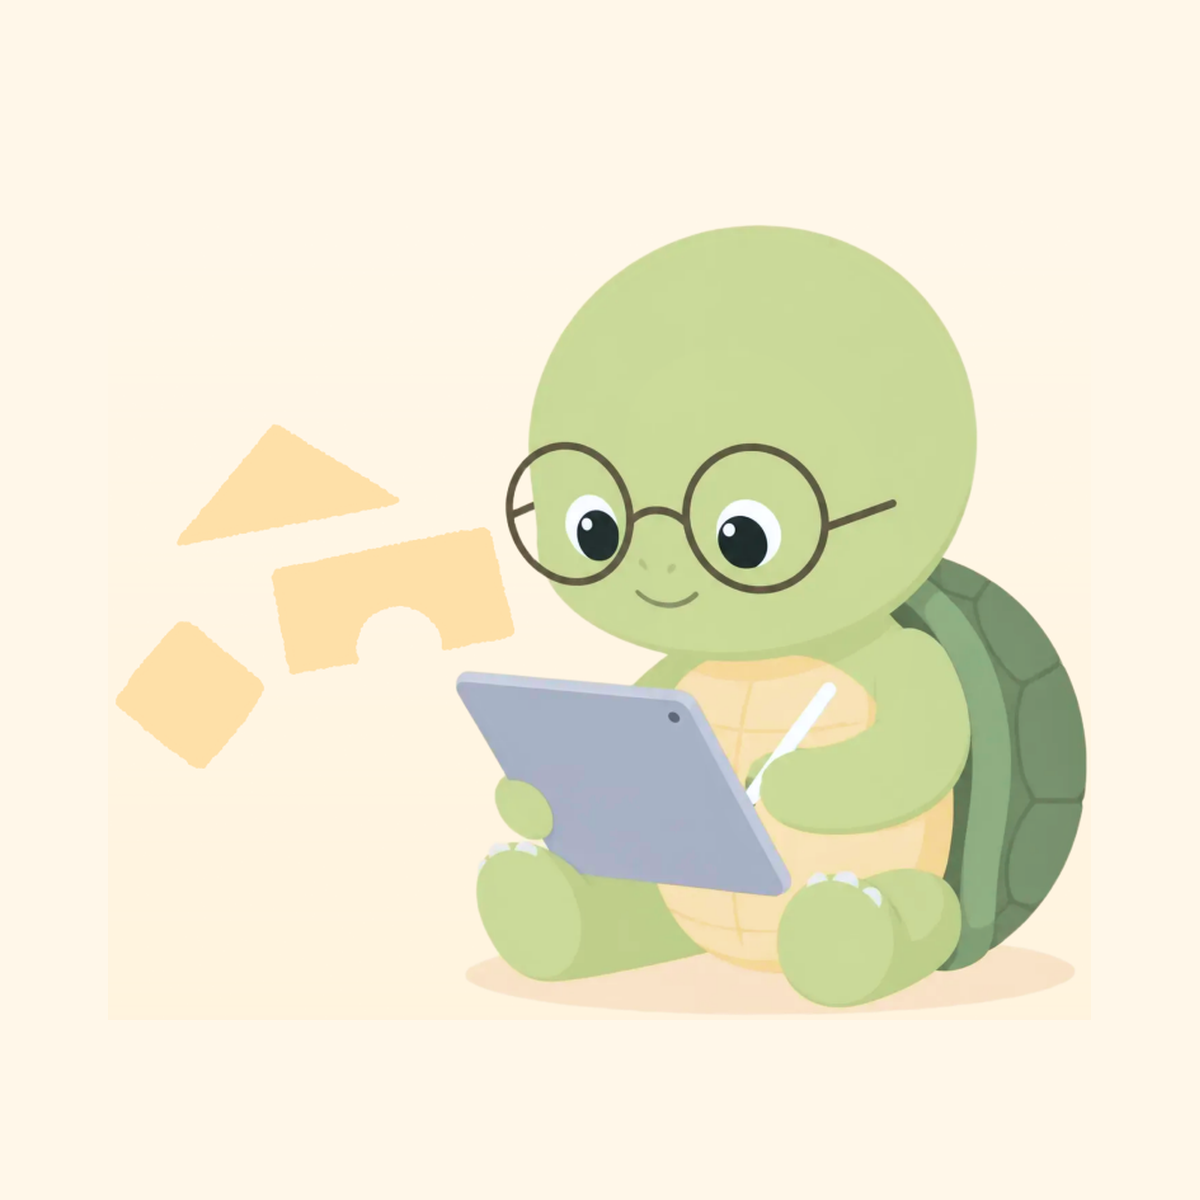
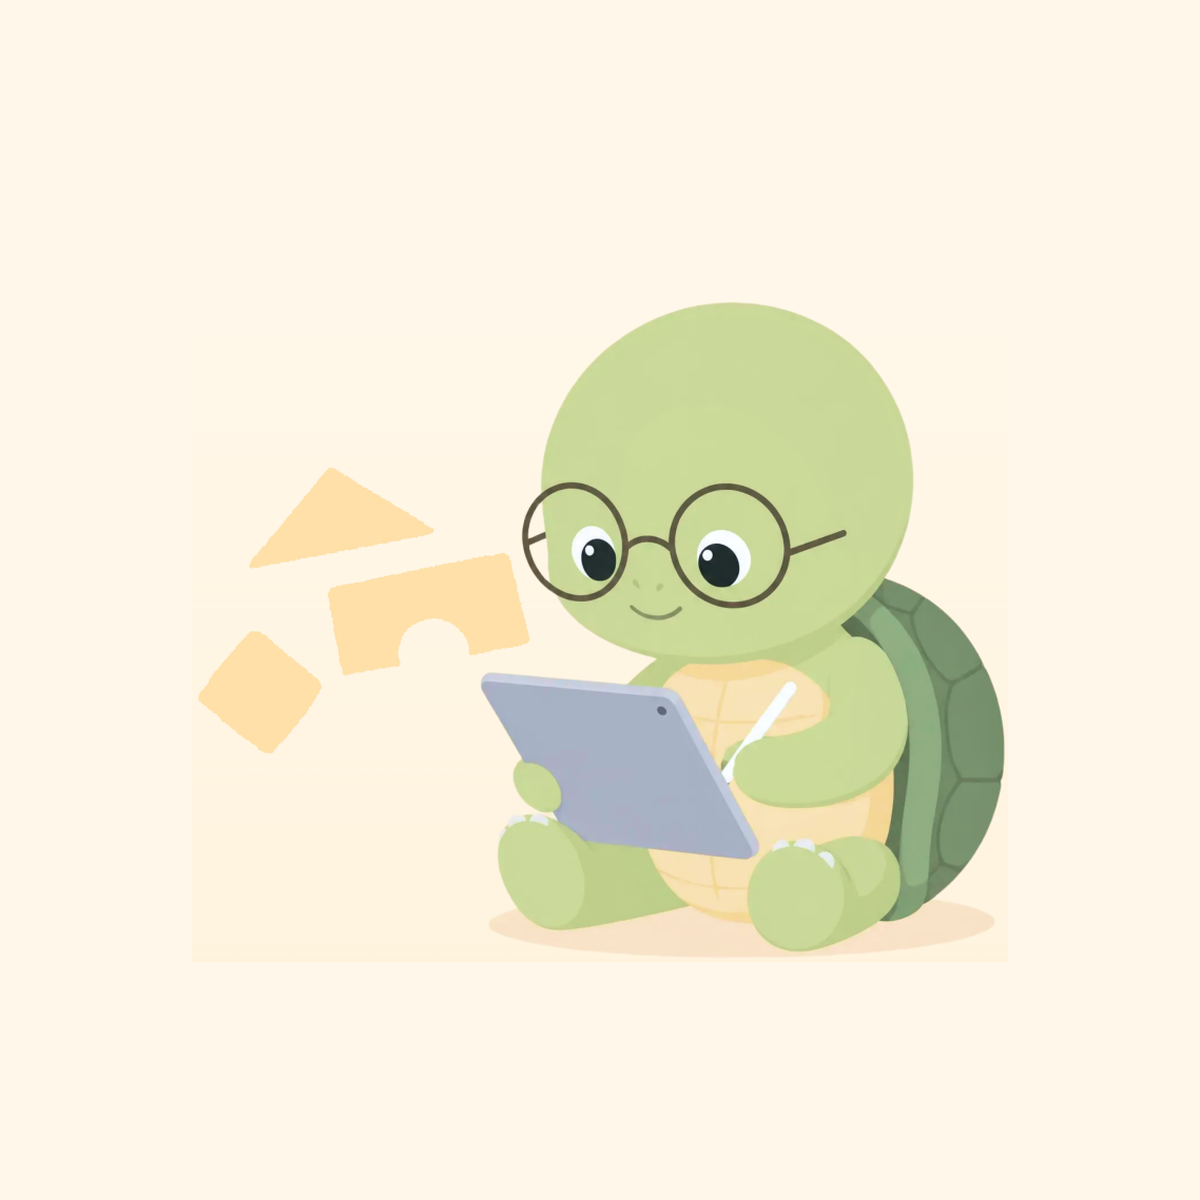
og:image 마스코트 크기 82% → 68% 로 축소 (여백 더 넉넉, 캐릭터 답답함 완화) · ?v= c 로 재크롤 유도

Changed region(s): [[0.0925, 0.185, 0.925, 0.8633]]

diff --git a/app/layout.tsx b/app/layout.tsx
@@ -46,7 +46,7 @@ export const metadata: Metadata = {
     type: "website",
     images: [
       {
-        url: "https://slowkids.net/og-image-mascot.png?v=20260901b",
+        url: "https://slowkids.net/og-image-mascot.png?v=20260901c",
         width: 1200,
         height: 1200,
         alt: "느린아이 시리즈 마스코트 — 태블릿을 들고 있는 거북이 캐릭터",
@@ -58,7 +58,7 @@ export const metadata: Metadata = {
     title: "느린아이 - 한 걸음씩, 아이의 속도로",
     description:
       "발달지연·발달장애·느린학습자·경계선지능 등 느린아이들이 자기 속도로 수학의 기초를 쌓는 학습도구. App Store에서 만나보세요.",
-    images: ["https://slowkids.net/og-image-mascot.png?v=20260901b"],
+    images: ["https://slowkids.net/og-image-mascot.png?v=20260901c"],
   },
   verification: {
     other: {

diff --git a/app/_seo/structuredData.ts b/app/_seo/structuredData.ts
@@ -4,7 +4,7 @@
 import { APP_NAMES, APP_ORDER, appHref, type Locale } from "../_home/apps";
 
 const SITE_URL = "https://slowkids.net";
-const OG_IMAGE = `${SITE_URL}/og-image-mascot.png?v=20260901b`;
+const OG_IMAGE = `${SITE_URL}/og-image-mascot.png?v=20260901c`;
 const OG_IMAGE_EN = `${SITE_URL}/og-image-en.png?v=20260726`;
 // JA OG 이미지는 app/jp/opengraph-image.tsx 가 빌드 타임에 정적 PNG 로 생성
 // (실제 파일은 /jp/opengraph-image 로 서빙, 확장자 없음). JSON-LD 용 안정 URL.
